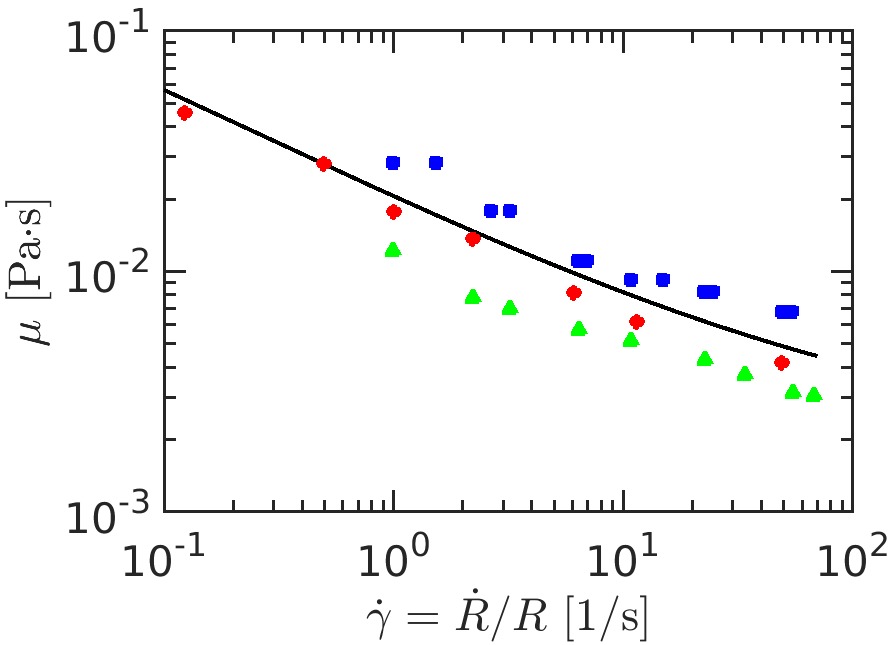
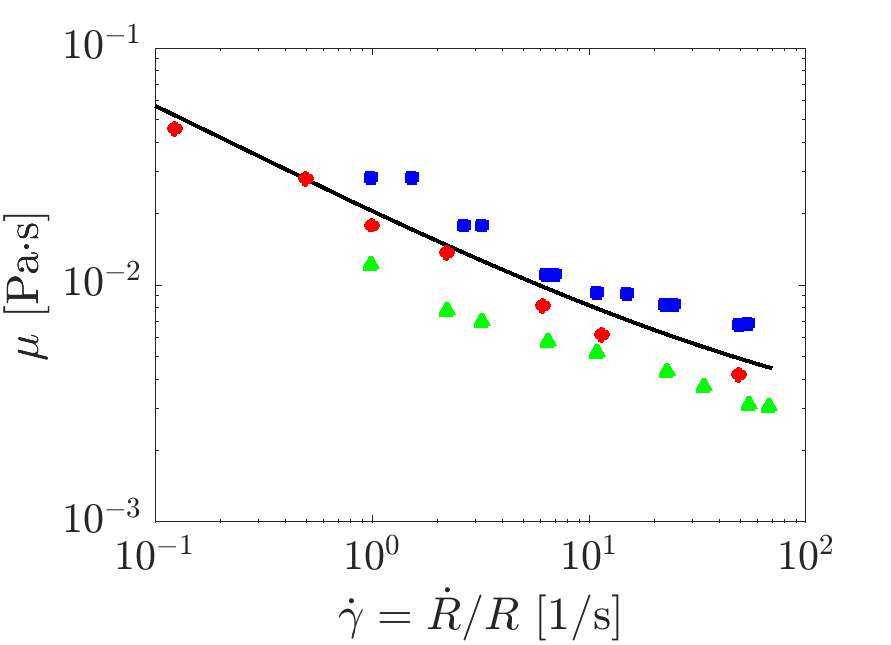
updating the non-linear fitting procedure

diff --git a/carreaufit.m b/carreaufit.m
@@ -23,14 +23,14 @@ gamma = gamma(1:end);
 car = @(x,gamma) x(4) + (x(3)-x(4)).*(1+x(1)^2.*gamma.^2).^((x(2)-1)/2);
 % setting initial condition in the guess
 % setting lower and upper bounds for the fitting
-lb = [1   , 0.2, 0.5*mu0 , 0.5*mu8 ];
-ub = [100 , 0.6, 2.0*mu0 , 2*mu8   ];
+lb = [0.2    ,  0.3, 0.2*mu0 , 0.2*mu8 ];
+ub = [500   ,   0.6, 5*mu0   , 5*mu8   ];
 x0 = (lb+ub)*0.5;
 options = optimoptions('lsqcurvefit','Algorithm','trust-region-reflective',...
     'OptimalityTolerance',1e-8,'FunctionTolerance',1E-8);
 % running least-squares fit in a nonliner sense, it is still linear
 % the arguments in xsol are the values in line 22
-[xsol,resnorm] = lsqcurvefit(car,x0,gamma,mu,lb,ub,options);
+[xsol,resnorm] = lsqcurvefit(car,x0,gamma,mu,lb,ub,options)
 
 % plotting the comparisons in a log-log plot to see the comparison more
 % fairly, add this figure to the manuscript (after making it prettier)
@@ -54,16 +54,7 @@ ylabel('$\mu$ [Pa$\cdot$s]', 'Interpreter', 'Latex', 'FontSize', 20);
 box on;
 set(gcf,'color','w'); %Changes background to white 
 set(gca, 'FontName', 'Times', 'FontSize', 20); 
-ax = gca;
-outerpos = ax.OuterPosition;
-ti = ax.TightInset; 
-left = outerpos(1) + ti(1);
-bottom = outerpos(2) + ti(2);
-ax_width = outerpos(3) - ti(1) - ti(3);
-ax_height = outerpos(4) - ti(2) - ti(4);
-ax.Position = [left bottom ax_width ax_height];
-ax.TickLength = [.03 .03];
-ax.LineWidth = 1.5;
+set(gca,'TickLabelInterpreter','latex')
 print('./fitfigs/carreauFit1', '-dpng'); 
 
 
@@ -82,55 +73,36 @@ ylabel('$\mu$ [Pa$\cdot$s]', 'Interpreter', 'Latex', 'FontSize', 20);
 box on;
 set(gcf,'color','w'); %Changes background to white 
 set(gca, 'FontName', 'Times', 'FontSize', 20); 
-ax = gca;
-outerpos = ax.OuterPosition;
-ti = ax.TightInset; 
-left = outerpos(1) + ti(1);
-bottom = outerpos(2) + ti(2);
-ax_width = outerpos(3) - ti(1) - ti(3);
-ax_height = outerpos(4) - ti(2) - ti(4);
-ax.Position = [left bottom ax_width ax_height];
-ax.TickLength = [.03 .03];
-ax.LineWidth = 1.5;
+set(gca,'TickLabelInterpreter','latex')
 print('./fitfigs/carreauFit2', '-dpng'); 
 
 
 % Skalak
-car_s = @(x,skax) x(4) + (x(3)-x(4)).*(1+x(1)^2.*skax.^2).^((x(2)-1)/2);
-lb_s = [1,0.2,0.5*mu0,0.5*mu8];
-ub_s = [100,0.6,2*mu0,2*mu8];
-x0_s = (lb+ub)*0.5;
 options = optimoptions('lsqcurvefit','Algorithm','trust-region-reflective',...
-    'OptimalityTolerance',1e-8,'FunctionTolerance',1E-8);
-[xsol_s,resnorm_s] = lsqcurvefit(car_s,x0_s,skax,skay,lb_s,ub_s,options);
-% Bird
-car_b = @(x,birox) x(4) + (x(3)-x(4)).*(1+x(1)^2.*birox.^2).^((x(2)-1)/2);
-lb_b = [1,0.2,0.5*mu0,0.5*mu8];
-ub_b = [100,0.6,2*mu0,2*mu8];
-x0_b = (lb+ub)*0.5;
+    'OptimalityTolerance',1e-10,'FunctionTolerance',1E-8);
+[xsol_s,resnorm_s] = lsqcurvefit(car,x0,skax,skay,lb,ub,options)
+
+% Biro
 options = optimoptions('lsqcurvefit','Algorithm','trust-region-reflective',...
-    'OptimalityTolerance',1e-8,'FunctionTolerance',1E-8);
-[xsol_b,resnorm_b] = lsqcurvefit(car_b,x0_b,birox,biroy,lb_b,ub_b,options);
+    'OptimalityTolerance',1e-10,'FunctionTolerance',1E-8);
+[xsol_b,resnorm_b] = lsqcurvefit(car,x0,birox,biroy,lb,ub,options)
+
 % Merrill
-car_m = @(x,merix) x(4) + (x(3)-x(4)).*(1+x(1)^2.*merix.^2).^((x(2)-1)/2);
-lb_m = [1,0.2,0.5*mu0,0.5*mu8];
-ub_m = [100,0.6,2*mu0,2*mu8];
-x0_m = (lb+ub)*0.5;
 options = optimoptions('lsqcurvefit','Algorithm','trust-region-reflective',...
-    'OptimalityTolerance',1e-8,'FunctionTolerance',1E-8);
-[xsol_m,resnorm_m] = lsqcurvefit(car_m,x0_m,merix,meriy,lb_m,ub_m,options);
+    'OptimalityTolerance',1e-10,'FunctionTolerance',1E-8);
+[xsol_m,resnorm_m] = lsqcurvefit(car,x0,merix,meriy,lb,ub,options)
 
 figure(3)
 loglog(xl,car(xsol,xl), 'k','LineWidth',2);
 hold on
 loglog(skax,skay,'or','markerfacecolor','r','LineWidth',2);
-loglog(xl,car_s(xsol_s,xl),'--r','LineWidth',2)
+loglog(xl,car(xsol_s,xl),'--r','LineWidth',2)
 
 loglog(birox,biroy,'sb','markerfacecolor','b','LineWidth',2)
-loglog(xl,car_b(xsol_b,xl),':b','LineWidth',2)
+loglog(xl,car(xsol_b,xl),':b','LineWidth',2)
 
 loglog(merix,meriy,'g^','markerfacecolor','g','LineWidth',2)
-loglog(xl,car_m(xsol_m,xl),'-.g','LineWidth',2)
+loglog(xl,car(xsol_m,xl),'-.g','LineWidth',2)
 
 %axis([10E-1 10E1 10E-2 10E-1])
 xlim([10E-2 10E1]);
@@ -142,14 +114,5 @@ ylabel('$\mu$ [Pa$\cdot$s]', 'Interpreter', 'Latex', 'FontSize', 20);
 box on;
 set(gcf,'color','w'); %Changes background to white 
 set(gca, 'FontName', 'Times', 'FontSize', 20); 
-ax = gca;
-outerpos = ax.OuterPosition;
-ti = ax.TightInset; 
-left = outerpos(1) + ti(1);
-bottom = outerpos(2) + ti(2);
-ax_width = outerpos(3) - ti(1) - ti(3);
-ax_height = outerpos(4) - ti(2) - ti(4);
-ax.Position = [left bottom ax_width ax_height];
-ax.TickLength = [.03 .03];
-ax.LineWidth = 1.5;
+set(gca,'TickLabelInterpreter','latex')
 print('./fitfigs/carreauFit3', '-dpng'); 
